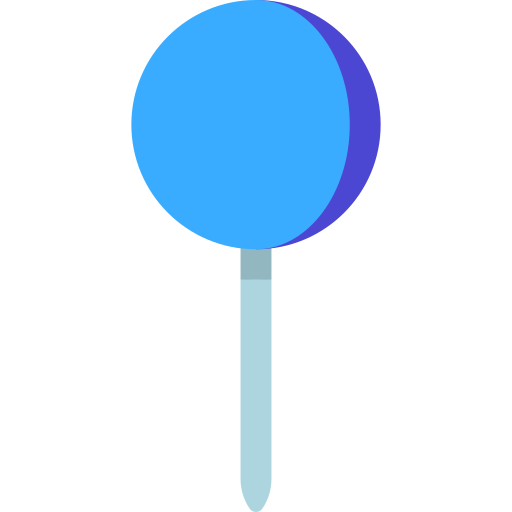
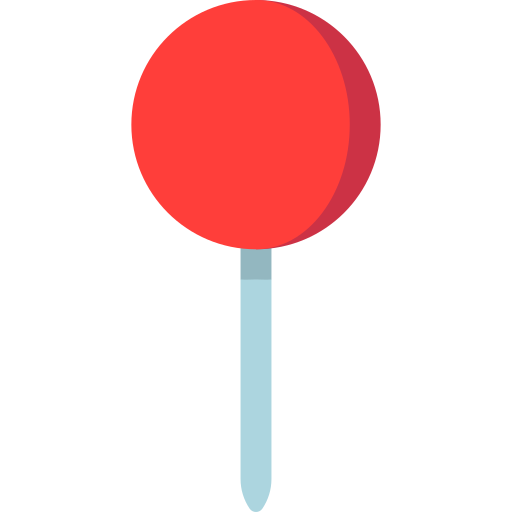
add current location component

Changed region(s): [[0.25, 0.0, 0.75, 0.5]]

diff --git a/src/component/MarkerResult.tsx b/src/component/MarkerResult.tsx
@@ -2,6 +2,7 @@ import React from "react";
 import { Marker, Popup } from "react-leaflet";
 import Leaflet from "leaflet";
 import markerMap from "../assets/markerMap.png";
+import Pin from "../assets/pin.png";
 import { Link } from "react-router-dom";
 import { createIconReview } from "../hooks/useReview";
 
@@ -12,24 +13,41 @@ type prop = {
   name: string;
   rating?: number;
   img: string;
+  markerType: string;
   setIdSelected: (id: string) => void;
 };
 
-const IconLocation = Leaflet.icon({
-  iconUrl: markerMap,
-  iconRetinaUrl: markerMap,
-  iconAnchor: undefined,
-  shadowUrl: undefined,
-  shadowSize: undefined,
-  shadowAnchor: undefined,
-  iconSize: [35, 35],
-  className: "leaflet-venue-icon",
-});
-
 export const MarkerResult = (props: prop): JSX.Element => {
   const { setIdSelected } = props;
+
+  const IconLocation = Leaflet.icon({
+    iconUrl: markerMap,
+    iconRetinaUrl: markerMap,
+    iconAnchor: undefined,
+    shadowUrl: undefined,
+    shadowSize: undefined,
+    shadowAnchor: undefined,
+    iconSize: [35, 35],
+    className: "leaflet-venue-icon",
+  });
+
+  const CurrentLocation = Leaflet.icon({
+    iconUrl: Pin,
+    iconRetinaUrl: Pin,
+    iconAnchor: undefined,
+    shadowUrl: undefined,
+    shadowSize: undefined,
+    shadowAnchor: undefined,
+    iconSize: [35, 35],
+    className: "leaflet-venue-icon",
+  });
+
+  console.log(props.markerType);
   return (
-    <Marker position={[props.lat, props.long]} icon={IconLocation}>
+    <Marker
+      position={[props.lat, props.long]}
+      icon={props.markerType === "result" ? IconLocation : CurrentLocation}
+    >
       <Popup>
         <Link id="marker" to={`/${props.idCoord}`} onClick={() => setIdSelected(props.idCoord)}>
           {props.name}

diff --git a/src/component/Header.tsx b/src/component/Header.tsx
@@ -311,17 +311,21 @@ export function Header(props: updateSearchInputsType): JSX.Element {
               setBusinessInput(e.target.value.toLowerCase())
             }
           />
-          <input
-            type="text"
-            id="where"
-            name="where"
-            placeholder="Where..."
-            value={whereInput}
-            onChange={(e: ChangeEvent<HTMLInputElement>) =>
-              setWhereInput(e.target.value.toLowerCase())
-            }
-          />
-          <button onClick={getCurrentLocation}>Use my Location</button>
+          <div id="where-container">
+            <input
+              type="text"
+              id="where"
+              name="where"
+              placeholder="Where..."
+              value={whereInput}
+              onChange={(e: ChangeEvent<HTMLInputElement>) =>
+                setWhereInput(e.target.value.toLowerCase())
+              }
+            />
+            <button id="gps-btn" title="Use my Location" onClick={getCurrentLocation}>
+              <img id="gps-img" src="/img/gps.png" />
+            </button>
+          </div>
         </div>
         <button onClick={() => updateSearchInputs(searchValues)}>Search</button>
       </div>

diff --git a/src/component/MapPage.tsx b/src/component/MapPage.tsx
@@ -1,7 +1,7 @@
 import React from "react";
 import { MapContainer, TileLayer } from "react-leaflet";
 import "leaflet/dist/leaflet.css";
-import { MarkerResult } from "./MarkerResult";
+import { MarkerResult, CurrentLocMarker } from "./index";
 import { CenterType, MarkerType } from "../interface";
 
 type prop = {
@@ -28,6 +28,7 @@ export const MapPage = (props: prop): JSX.Element => {
             url="https://{s}.tile.openstreetmap.org/{z}/{x}/{y}.png"
             attribution='&copy; <a href="http://osm.org/copyright">OpenStreetMap</a> contributors'
           />
+          <CurrentLocMarker lat={props.region.latitude} long={props.region.longitude} />
           {props?.markers
             ? props.markers.map((item: MarkerType, index: number) => {
                 return (
@@ -40,6 +41,7 @@ export const MapPage = (props: prop): JSX.Element => {
                     name={item.nameCoord}
                     rating={item.ratingCoord}
                     img={item.imgCoord}
+                    markerType={"result"}
                   />
                 );
               })

diff --git a/src/component/Footer.tsx b/src/component/Footer.tsx
@@ -4,21 +4,20 @@ export const Footer = (): JSX.Element => {
   return (
     <div id="footer-container">
       <div>
-        Icons made by
+        Icons made by{` `}
         <a href="https://www.flaticon.com/authors/payungkead" title="Payungkead">
           Payungkead
         </a>
-        from
-        <a href="https://www.flaticon.com/" title="Flaticon">
-          www.flaticon.com
+        ,{` `}
+        <a href="https://www.flaticon.com/authors/twentyfour" title="twentyfour">
+          twentyfour
         </a>
-      </div>
-      <div>
-        Icons made by
+        {` `}
+        and{` `}
         <a href="https://www.freepik.com" title="Freepik">
           Freepik
         </a>
-        from
+        {` `}from{` `}
         <a href="https://www.flaticon.com/" title="Flaticon">
           www.flaticon.com
         </a>

diff --git a/src/component/CurrentLocMarker.tsx b/src/component/CurrentLocMarker.tsx
@@ -1,0 +1,24 @@
+import React from "react";
+import { Marker } from "react-leaflet";
+import Leaflet from "leaflet";
+import Pin from "../assets/pin.png";
+
+type prop = {
+  lat: number;
+  long: number;
+};
+
+const IconLocation = Leaflet.icon({
+  iconUrl: Pin,
+  iconRetinaUrl: Pin,
+  iconAnchor: undefined,
+  shadowUrl: undefined,
+  shadowSize: undefined,
+  shadowAnchor: undefined,
+  iconSize: [45, 45],
+  className: "leaflet-venue-icon",
+});
+
+export const CurrentLocMarker = (props: prop): JSX.Element => {
+  return <Marker position={[props.lat, props.long]} icon={IconLocation} />;
+};

diff --git a/src/component/index.ts b/src/component/index.ts
@@ -6,3 +6,5 @@ export { BasicInfoProd } from "./BasicInfoProd";
 export { ItemReview } from "./ItemReview";
 export { Pagination } from "./Pagination";
 export { MapPage } from "./MapPage";
+export { MarkerResult } from "./MarkerResult";
+export { CurrentLocMarker } from "./CurrentLocMarker";
